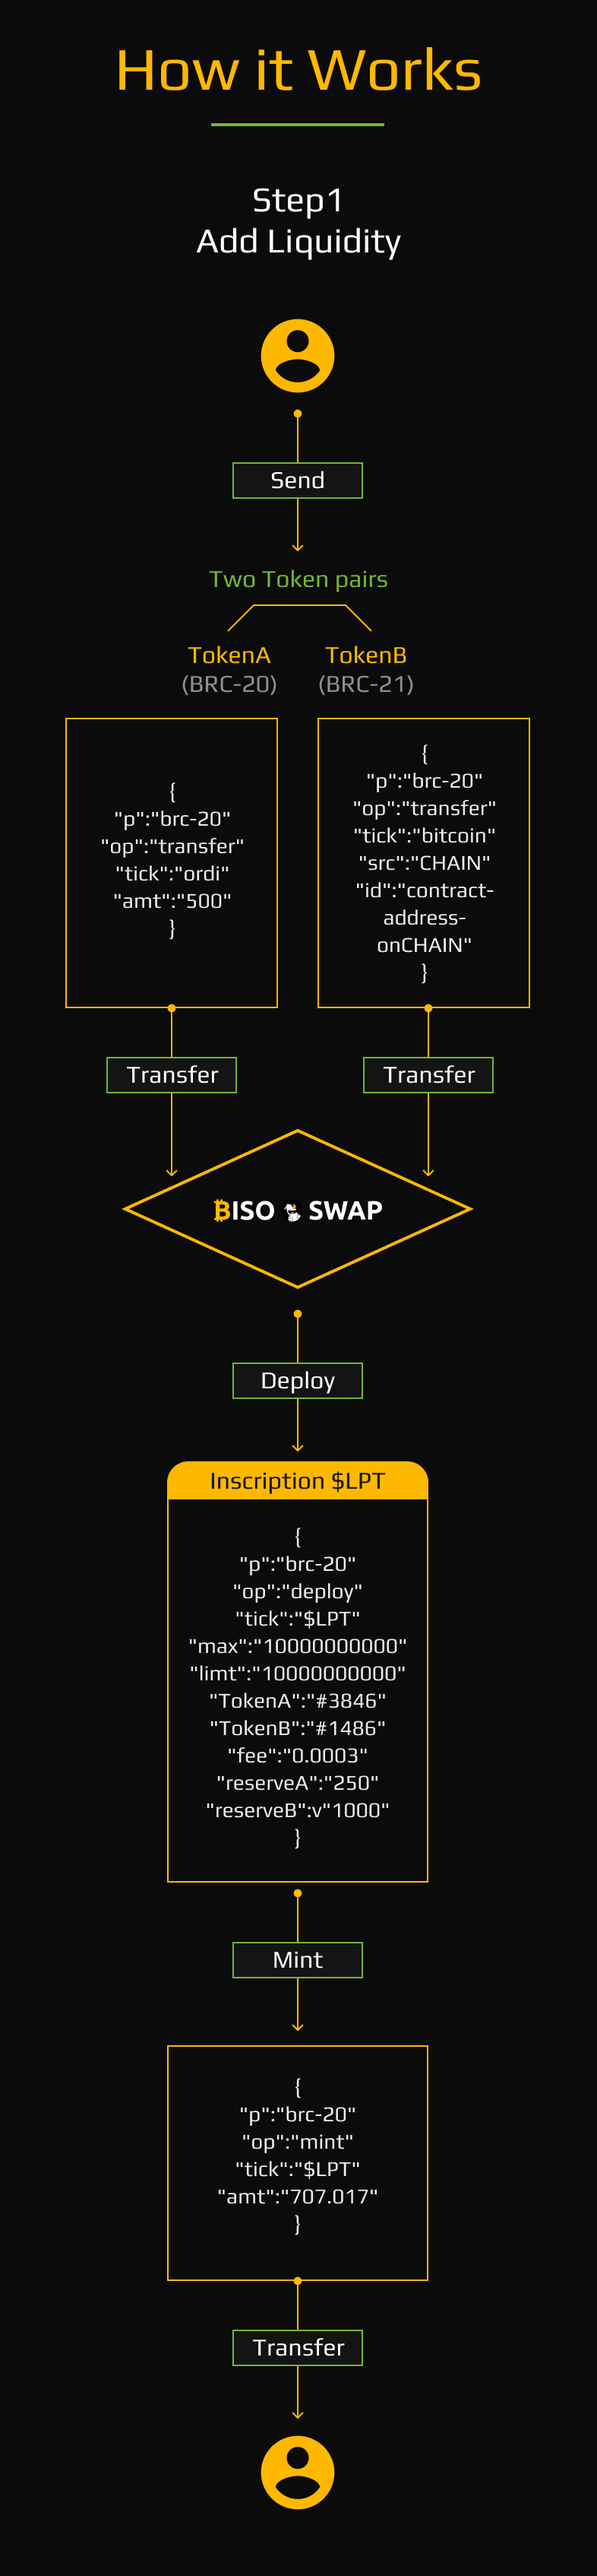
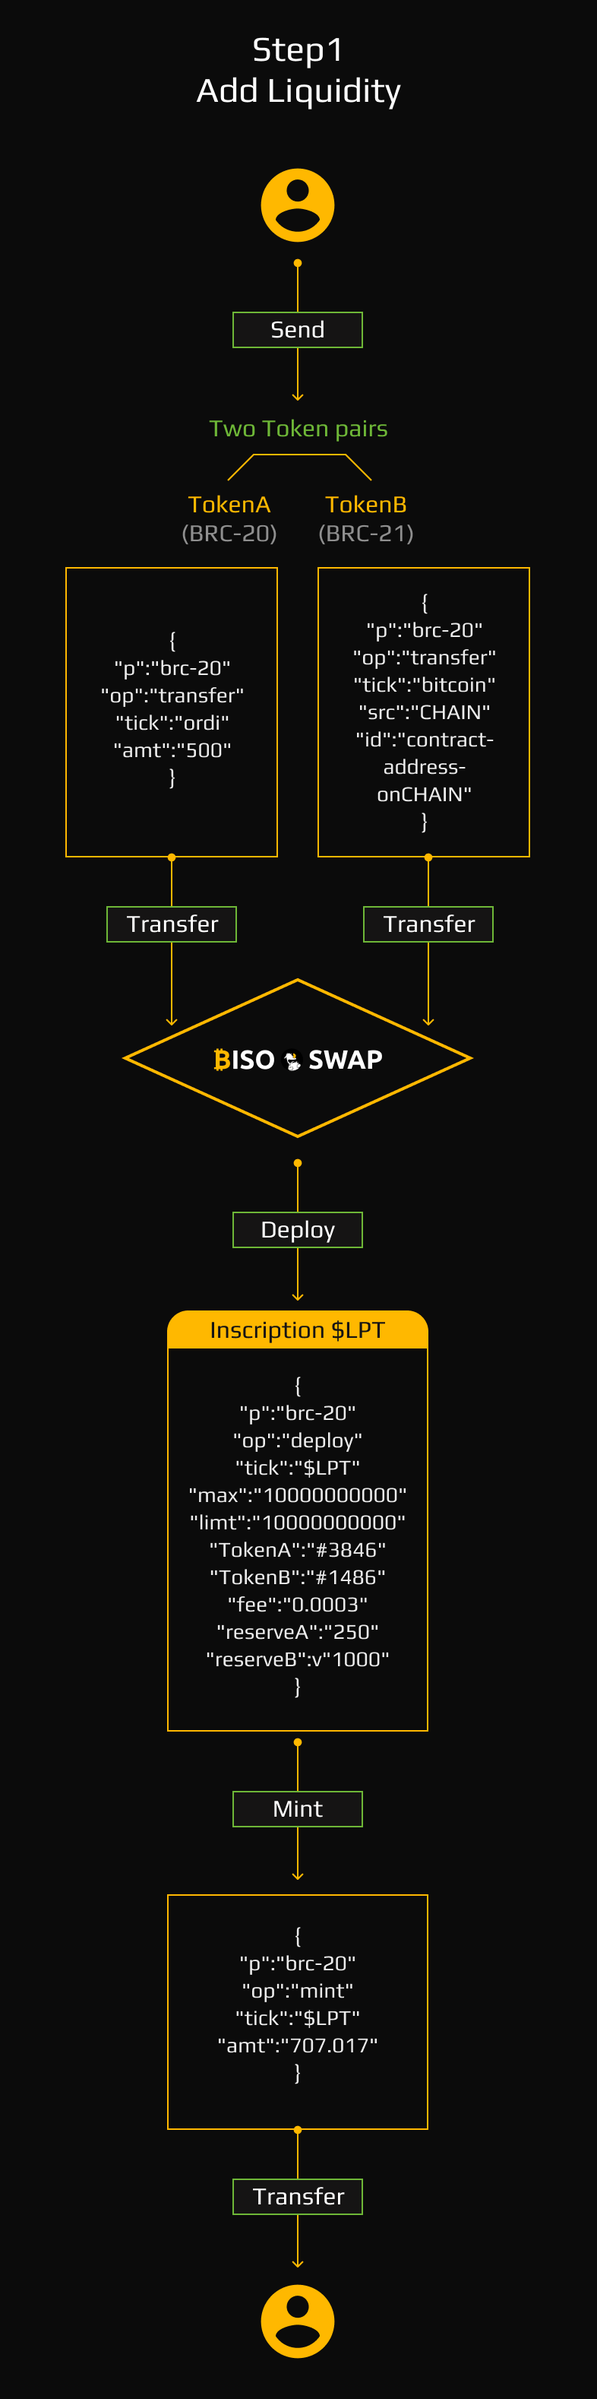
fixed

diff --git a/styles/home.module.scss b/styles/home.module.scss
@@ -171,7 +171,7 @@
                 }
                 .step1 {
                     background: url(../public/home/m_step1.png) no-repeat center top/ 100% auto;
-                    height: 1800px;
+                    height: 1700px;
                     display: inline-block;
                     width: 100%;
                     vertical-align: top;
@@ -179,7 +179,7 @@
     
                 .step2 {
                     background: url(../public/home/m_step2.png) no-repeat center top/ 100% auto;
-                    height: 1650px;
+                    height: 1550px;
                     display: inline-block;
                         width: 100%;
                     vertical-align: top;
@@ -187,7 +187,7 @@
     
                 .step3 {
                     background: url(../public/home/m_step3.png) no-repeat center top/ 100% auto;
-                    height: 1750px;
+                    height: 1650px;
                     display: inline-block;
                         width: 100%;
                     vertical-align: top;
@@ -202,6 +202,6 @@
     }
 
     100% {
-        margin-top: 50px;
+        margin-top: 30px;
     }
 }

diff --git a/layout/Header.js b/layout/Header.js
@@ -33,7 +33,7 @@ const Header = (props) => {
                     <ul className={styles.link}>
                         <a href="https://t.me/BisoSwap" target="_blank"><li className={styles.tg}></li></a>
                         <a href="https://twitter.com/bisoswap" target="_blank"><li className={styles.tw}></li></a>
-                        <li className={styles.dc}></li>
+                        <a href='https://medium.com/@BisoSwap' target="_blank"><li className={styles.dc}></li></a>
                         <li className={styles.gb}></li>
                     </ul>
                 </div>

diff --git a/layout/Footer.js b/layout/Footer.js
@@ -9,7 +9,7 @@ const Footer = ({ t }) => {
           <ul>
             <a href="https://t.me/BisoSwap" target="_blank"><li className={styles.tg}></li></a>
             <a href="https://twitter.com/bisoswap" target="_blank"><li className={styles.tw}></li></a>
-            <li className={styles.logo}></li>
+            <a href='https://medium.com/@BisoSwap' target="_blank"><li className={styles.logo}></li></a>
             <li className={styles.dc}></li>
             <li className={styles.gb}></li>
           </ul>
